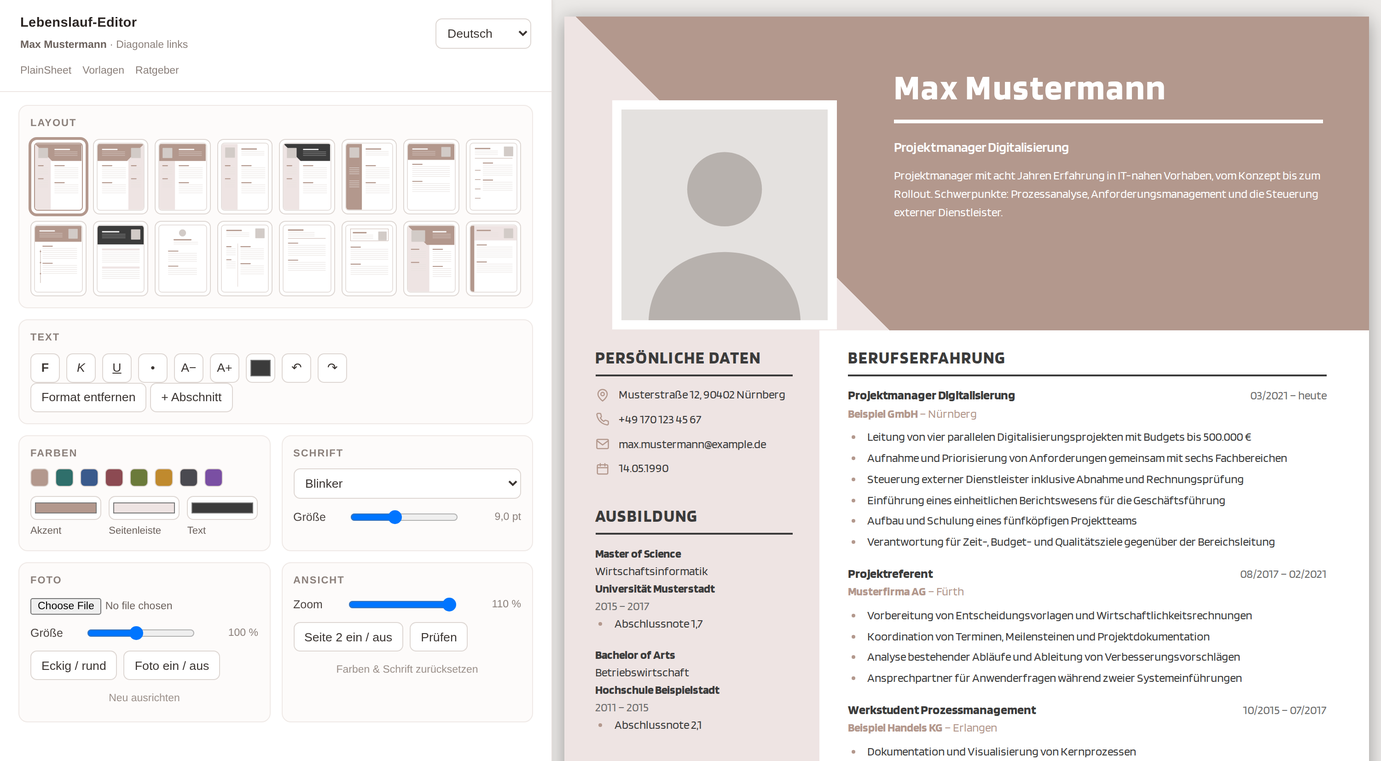
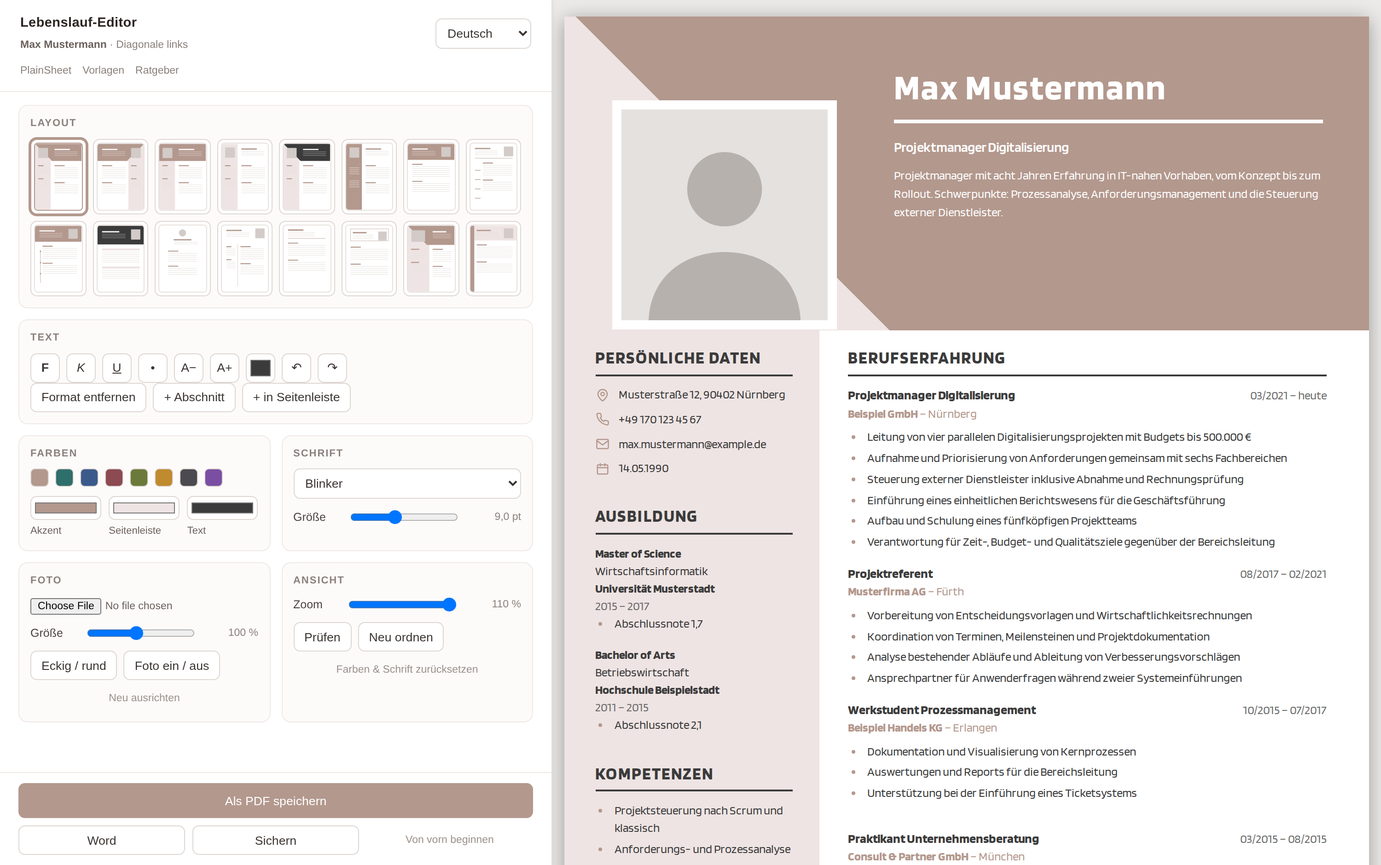
Make every + Abschnitt work, and let the sheet follow its content
The slots were built for the row grid that briefly existed: abschnittNeu()
tested the clicked element for a class the columns no longer carry, fell
through to its fallback, and put the section in the main column wherever
you clicked. The sidebar slot never once filled the sidebar. Slots also
kept being drawn at the end of full columns, where the sheet's overflow
clipped them — a dashed button, half visible, doing nothing.

- A slot fills its own column. The click reads the column at click time,
  so a slot that has moved to another page still adds the section there.
- A slot is only drawn where it can be clicked: it may reach into the
  bottom margin (it never prints), it goes shallower when space is tight,
  and it is left out rather than clipped on a column that is full.
- Because a full column can have no slot, the panel gained "+ in
  Seitenleiste" next to "+ Abschnitt". The sidebar button hides itself on
  the single-column layouts, which have no sidebar to fill.

The second half: geometry is now derived from the content, not from the
template alone.

- A page whose sidebar holds no sections drops its tinted panel. An empty
  block of colour reads as a fault, not as design.
- If no page uses the sidebar, the sheet becomes single-column: the main
  column takes the full width and the sidebar's slot waits underneath,
  named, so it can be brought back.
- Page 2 appears when page 1 overflows and disappears when nothing is
[…]

diff --git a/editor.html b/editor.html
@@ -206,13 +206,20 @@ body{display:flex;align-items:flex-start;background:#eceae8}
    auf. Gedruckt wird er nie. */
 .platz{
   display:flex;width:100%;align-items:center;justify-content:center;gap:1.5mm;
-  min-height:11mm;margin-top:7mm;border:.4mm dashed #cfc6c1;border-radius:1.5mm;
+  min-height:9mm;margin-top:5mm;border:.4mm dashed #cfc6c1;border-radius:1.5mm;
   color:#a2968f;font:600 3mm/1 -apple-system,"Segoe UI",Roboto,Arial,sans-serif;
   letter-spacing:.2mm;cursor:pointer;background:rgba(255,255,255,.45);
   transition:border-color .12s,color .12s,background .12s;
 }
 .platz:hover{border-color:var(--accent);color:var(--accent);background:rgba(255,255,255,.8)}
+/* Auf einer gut gefüllten Seite bleibt nur wenig Luft: dort wird der
+   Platz flacher, statt zu verschwinden. */
+.platz.knapp{min-height:6mm;margin-top:3mm}
 #blaetter.messen .platz{display:none}
+/* Gemessen wird immer in Druckgröße. Bei 90 % Zoom bricht eine Zeile
+   anders um als bei 110 %, und dann hing es am Zoom, ob der letzte
+   Abschnitt noch auf Seite 1 passt — das PDF sah bei jedem anders aus. */
+#blaetter.messen{zoom:1}
 /* Einspaltig steht die Seitenspalte unter der Hauptspalte. Ein Platz am
    Ende der Hauptspalte läge damit mitten im Dokument und würde alles
    darunter nach unten schieben — dort gibt es nur den Platz am Ende. */
@@ -529,6 +536,27 @@ h2.sec{margin:0 0 2.5mm;padding-bottom:1.2mm;font-size:1.4em;font-weight:700;let
 .t13 .side .contact,.t14 .side .contact,.t16 .side .contact{display:inline-flex;margin:0 8mm 1.8mm 0}
 
 /* ==================================================================
+   Das Blatt folgt dem Inhalt
+   Diese Regeln stehen absichtlich hinter allen Varianten: sie sollen
+   deren Geometrie überschreiben, sobald der Inhalt es verlangt.
+   ================================================================== */
+/* Eine Seitenspalte ohne Abschnitte trägt keine getönte Fläche. Ein
+   leerer Farbstreifen sieht nach Fehler aus, nicht nach Gestaltung. */
+.page.leiste-leer .sidebg{display:none}
+/* Beim Akzentstreifen ist die Fläche Blattschmuck und keine Spalte. */
+.page.leiste-leer.t16 .sidebg{display:block}
+
+/* Nutzt das Dokument die Seitenspalte gar nicht mehr, nimmt die
+   Hauptspalte die ganze Breite. Der Platz für die Seitenspalte bleibt
+   darunter stehen, damit sie sich zurückholen lässt. */
+.page.ohne-leiste .raster{grid-template-columns:1fr}
+.page.ohne-leiste .spalte.main{grid-column:1;grid-row:1;padding:0 15mm}
+.page.ohne-leiste .spalte.side{grid-column:1;grid-row:2;padding:0 15mm}
+.page.ohne-leiste.t6 .bandbg{display:none}
+.page.ohne-leiste.t12 .sidebg{display:none}
+.page.ohne-leiste.t15 .bandtext{left:86mm}
+
+/* ==================================================================
    Druck
    ================================================================== */
 @page{size:A4;margin:0}
@@ -586,8 +614,12 @@ h2.sec{margin:0 0 2.5mm;padding-bottom:1.2mm;font-size:1.4em;font-weight:700;let
         <button class="icon" onclick="cmd('undo')" title="Rückgängig">&#8630;</button>
         <button class="icon" onclick="cmd('redo')" title="Wiederholen">&#8631;</button>
       </div>
+      <div class="reihe">
         <button data-t="format" onclick="cmd('removeFormat')">Format entfernen</button>
         <button data-t="abschnitt" onclick="abschnittNeu()">+ Abschnitt</button>
+        <button id="knopfLeiste" data-t="abschnittLeiste"
+                onclick="abschnittNeu(leisteSpalte())">+ in Seitenleiste</button>
+      </div>
     </div>
 
 
@@ -663,8 +695,8 @@ h2.sec{margin:0 0 2.5mm;padding-bottom:1.2mm;font-size:1.4em;font-weight:700;let
         <input type="range" id="fZoom" min="45" max="110" step="5" value="85">
         <span class="wert" id="fZoomTxt">85 %</span></div>
       <div class="reihe">
-        <button data-t="seite2" onclick="seite2()">Seite 2 ein / aus</button>
         <button data-t="pruefen" onclick="checkFit(true)">Prüfen</button>
+        <button data-t="neuOrdnen" onclick="neuOrdnen(true)">Neu ordnen</button>
         <button class="leise breit" data-t="reset" onclick="zuruecksetzen()">Farben &amp; Schrift zurücksetzen</button>
       </div>
     </div>
@@ -855,8 +887,8 @@ const VARS = [
 ];
 const EINSPALTIG = ['t7','t8','t9','t10','t11','t13','t14','t16'];
 const INHALT = {"en": {"p1kopf": "<h1>John Doe</h1><div class=\"role\">Digital Transformation Project Manager</div><p>Project manager, eight years, taking IT initiatives from first concept to rollout. Focus on process analysis, requirements management and steering external suppliers.</p>", "p1side": "<section class=\"blk\"><div class=\"griff\" contenteditable=\"false\"><span class=\"zieh\" title=\"&#8942;\">&#9776;</span><span class=\"weg\" onclick=\"blockWeg(this)\">&#10005;</span></div><div class=\"inhalt\" contenteditable=\"true\"><h2 class=\"sec\">Personal details</h2><div class=\"contact\"><span class=\"ic ic-ort\"></span><span>12 Sample Street, 90402 Nuremberg</span></div><div class=\"contact\"><span class=\"ic ic-tel\"></span><span>+49 170 123 45 67</span></div><div class=\"contact\"><span class=\"ic ic-mail\"></span><span>john.doe@example.com</span></div><div class=\"contact\"><span class=\"ic ic-datum\"></span><span>14 May 1990</span></div></div></section><section class=\"blk\"><div class=\"griff\" contenteditable=\"false\"><span class=\"zieh\" title=\"&#8942;\">&#9776;</span><span class=\"weg\" onclick=\"blockWeg(this)\">&#10005;</span></div><div class=\"inhalt\" contenteditable=\"true\"><h2 class=\"sec\">Education</h2><div class=\"edu\"><div class=\"degree\">Master of Science</div><div>Business Information Systems</div><div><strong>Sample University</strong></div><div class=\"date\">2015 – 2017</div><ul><li>Final grade 1.7 (German scale)</li></ul></div><div class=\"edu\"><div class=\"degree\">Bachelor of Arts</div><div>Business Administration</div><div><strong>Example University of Applied Sciences</strong></div><div class=\"date\">2011 – 2015</div><ul><li>Final grade 2.1 (German scale)</li></ul></div></div></div></section>", "p1main": "<section class=\"blk\"><div class=\"griff\" contenteditable=\"false\"><span class=\"zieh\" title=\"&#8942;\">&#9776;</span><span class=\"weg\" onclick=\"blockWeg(this)\">&#10005;</span></div><div class=\"inhalt\" contenteditable=\"true\"><h2 class=\"sec\">Work experience</h2><div class=\"job\"><div class=\"jobhead\"><span class=\"jobtitle\">Digital Transformation Project Manager</span><span class=\"jobdate\">03/2021 – present</span></div><div class=\"company\"><strong>Example GmbH</strong> – Nuremberg</div><ul><li>Led four parallel digitalisation projects with budgets of up to €500,000</li><li>Gathered and prioritised requirements together with six departments</li><li>Managed external service providers including acceptance testing and invoice review</li><li>Introduced consistent reporting for the management board</li></ul></div><div class=\"job\"><div class=\"jobhead\"><span class=\"jobtitle\">Project Officer</span><span class=\"jobdate\">08/2017 – 02/2021</span></div><div class=\"company\"><strong>Sample AG</strong> – Fürth</div><ul><li>Prepared decision papers and cost-benefit analyses</li><li>Coordinated deadlines, milestones and project documentation</li><li>Analysed existing workflows and proposed improvements</li><li>Point of contact for user questions during two system rollouts</li></ul></div><div class=\"job\"><div class=\"jobhead\"><span class=\"jobtitle\">Working Student, Process Management</span><span class=\"jobdate\">10/2015 – 07/2017</span></div><div class=\"company\"><strong>Example Trading KG</strong> – Erlangen</div><ul><li>Documented and visualised core business processes</li><li>Produced analyses and reports for the division head</li><li>Supported the introduction of a ticketing system</li></ul></div></div></section>", "p2side": "<section class=\"blk\"><div class=\"griff\" contenteditable=\"false\"><span class=\"zieh\" title=\"&#8942;\">&#9776;</span><span class=\"weg\" onclick=\"blockWeg(this)\">&#10005;</span></div><div class=\"inhalt\" contenteditable=\"true\"><h2 class=\"sec\">Skills</h2><ul><li>Project management, agile and traditional</li><li>Requirements and process analysis</li><li>Jira &amp; Confluence – confident daily use</li><li>SAP – working knowledge</li><li>Microsoft Office – advanced</li><li>Presenting and facilitating</li></ul></div></section><section class=\"blk\"><div class=\"griff\" contenteditable=\"false\"><span class=\"zieh\" title=\"&#8942;\">&#9776;</span><span class=\"weg\" onclick=\"blockWeg(this)\">&#10005;</span></div><div class=\"inhalt\" contenteditable=\"true\"><h2 class=\"sec\">Languages</h2><div class=\"lang\"><strong>English</strong>: native speaker</div><div class=\"lang\"><strong>German</strong>: C1</div><div class=\"lang\"><strong>Spanish</strong>: B1</div></div></section>", "p2main": "<section class=\"blk\"><div class=\"griff\" contenteditable=\"false\"><span class=\"zieh\" title=\"&#8942;\">&#9776;</span><span class=\"weg\" onclick=\"blockWeg(this)\">&#10005;</span></div><div class=\"inhalt\" contenteditable=\"true\"><div class=\"job\"><div class=\"jobhead\"><span class=\"jobtitle\">Intern, Management Consulting</span><span class=\"jobdate\">03/2015 – 08/2015</span></div><div class=\"company\"><strong>Consult &amp; Partner GmbH</strong> – Munich</div><ul><li>Supported a procurement process review at an industrial client</li><li>Produced presentations and result documentation</li></ul></div></div></section><section class=\"blk\"><div class=\"griff\" contenteditable=\"false\"><span class=\"zieh\" title=\"&#8942;\">&#9776;</span><span class=\"weg\" onclick=\"blockWeg(this)\">&#10005;</span></div><div class=\"inhalt\" contenteditable=\"true\"><h2 class=\"sec\">Further training</h2><div class=\"job\"><div class=\"jobhead\"><span class=\"jobtitle\">Professional Scrum Master I</span><span class=\"jobdate\">2022</span></div><div class=\"company\"><strong>Scrum.org</strong></div></div><div class=\"job\"><div class=\"jobhead\"><span class=\"jobtitle\">IPMA Level D Project Management</span><span class=\"jobdate\">2019</span></div><div class=\"company\"><strong>German Association for Project Management</strong></div></div></div></section>"}, "es": {"p1kopf": "<h1>Juan Pérez</h1><div class=\"role\">Jefe de proyecto de digitalización</div><p>Jefe de proyecto con ocho años de experiencia en iniciativas de TI, del concepto a la implantación. Especializado en análisis de procesos y gestión de proveedores.</p>", "p1side": "<section class=\"blk\"><div class=\"griff\" contenteditable=\"false\"><span class=\"zieh\" title=\"&#8942;\">&#9776;</span><span class=\"weg\" onclick=\"blockWeg(this)\">&#10005;</span></div><div class=\"inhalt\" contenteditable=\"true\"><h2 class=\"sec\">Datos personales</h2><div class=\"contact\"><span class=\"ic ic-ort\"></span><span>Calle Ejemplo 12, 90402 Núremberg</span></div><div class=\"contact\"><span class=\"ic ic-tel\"></span><span>+49 170 123 45 67</span></div><div class=\"contact\"><span class=\"ic ic-mail\"></span><span>juan.perez@example.com</span></div><div class=\"contact\"><span class=\"ic ic-datum\"></span><span>14/05/1990</span></div></div></section><section class=\"blk\"><div class=\"griff\" contenteditable=\"false\"><span class=\"zieh\" title=\"&#8942;\">&#9776;</span><span class=\"weg\" onclick=\"blockWeg(this)\">&#10005;</span></div><div class=\"inhalt\" contenteditable=\"true\"><h2 class=\"sec\">Formación</h2><div class=\"edu\"><div class=\"degree\">Máster</div><div>Sistemas de Información Empresarial</div><div><strong>Universidad de Ejemplo</strong></div><div class=\"date\">2015 – 2017</div><ul><li>Nota final 1,7 (escala alemana)</li></ul></div><div class=\"edu\"><div class=\"degree\">Grado</div><div>Administración de Empresas</div><div><strong>Escuela Superior de Ejemplo</strong></div><div class=\"date\">2011 – 2015</div><ul><li>Nota final 2,1 (escala alemana)</li></ul></div></div></div></section>", "p1main": "<section class=\"blk\"><div class=\"griff\" contenteditable=\"false\"><span class=\"zieh\" title=\"&#8942;\">&#9776;</span><span class=\"weg\" onclick=\"blockWeg(this)\">&#10005;</span></div><div class=\"inhalt\" contenteditable=\"true\"><h2 class=\"sec\">Experiencia profesional</h2><div class=\"job\"><div class=\"jobhead\"><span class=\"jobtitle\">Jefe de proyecto de digitalización</span><span class=\"jobdate\">03/2021 – actualidad</span></div><div class=\"company\"><strong>Ejemplo GmbH</strong> – Núremberg</div><ul><li>Dirección de cuatro proyectos de digitalización simultáneos con presupuestos de hasta 500.000 €</li><li>Recogida y priorización de requisitos junto a seis departamentos</li><li>Gestión de proveedores externos, incluidas recepción y revisión de facturas</li><li>Implantación de un sistema de informes unificado para la dirección</li></ul></div><div class=\"job\"><div class=\"jobhead\"><span class=\"jobtitle\">Técnico de proyectos</span><span class=\"jobdate\">08/2017 – 02/2021</span></div><div class=\"company\"><strong>Empresa Ejemplo AG</strong> – Fürth</div><ul><li>Elaboración de propuestas de decisión y análisis de rentabilidad</li><li>Coordinación de plazos, hitos y documentación del proyecto</li><li>Análisis de procesos existentes y propuestas de mejora</li><li>Persona de contacto para los usuarios durante dos implantaciones de sistemas</li></ul></div><div class=\"job\"><div class=\"jobhead\"><span class=\"jobtitle\">Estudiante en prácticas, gestión de procesos</span><span class=\"jobdate\">10/2015 – 07/2017</span></div><div class=\"company\"><strong>Comercial Ejemplo KG</strong> – Erlangen</div><ul><li>Documentación y representación gráfica de los procesos clave</li><li>Análisis e informes para la dirección de área</li><li>Apoyo en la implantación de un sistema de tickets</li></ul></div></div></section>", "p2side": "<section class=\"blk\"><div class=\"griff\" contenteditable=\"false\"><span class=\"zieh\" title=\"&#8942;\">&#9776;</span><span class=\"weg\" onclick=\"blockWeg(this)\">&#10005;</span></div><div class=\"inhalt\" contenteditable=\"true\"><h2 class=\"sec\">Competencias</h2><ul><li>Gestión de proyectos, ágil y clásica</li><li>Análisis de requisitos y de procesos</li><li>Jira &amp; Confluence – uso habitual</li><li>SAP – conocimientos básicos</li><li>Microsoft Office – nivel avanzado</li><li>Presentación y moderación</li></ul></div></section><section class=\"blk\"><div class=\"griff\" contenteditable=\"false\"><span class=\"zieh\" title=\"&#8942;\">&#9776;</span><span class=\"weg\" onclick=\"blockWeg(this)\">&#10005;</span></div><div class=\"inhalt\" contenteditable=\"true\"><h2 class=\"sec\">Idiomas</h2><div class=\"lang\"><strong>Español</strong>: lengua materna</div><div class=\"lang\"><strong>Inglés</strong>: C1</div><div class=\"lang\"><strong>Alemán</strong>: B1</div></div></section>", "p2main": "<section class=\"blk\"><div class=\"griff\" contenteditable=\"false\"><span class=\"zieh\" title=\"&#8942;\">&#9776;</span><span class=\"weg\" onclick=\"blockWeg(this)\">&#10005;</span></div><div class=\"inhalt\" contenteditable=\"true\"><div class=\"job\"><div class=\"jobhead\"><span class=\"jobtitle\">Prácticas en consultoría</span><span class=\"jobdate\">03/2015 – 08/2015</span></div><div class=\"company\"><strong>Consult &amp; Partner GmbH</strong> – Múnich</div><ul><li>Colaboración en un análisis de procesos de compras en un cliente industrial</li><li>Elaboración de presentaciones y documentación de resultados</li></ul></div></div></section><section class=\"blk\"><div class=\"griff\" contenteditable=\"false\"><span class=\"zieh\" title=\"&#8942;\">&#9776;</span><span class=\"weg\" onclick=\"blockWeg(this)\">&#10005;</span></div><div class=\"inhalt\" contenteditable=\"true\"><h2 class=\"sec\">Formación continua</h2><div class=\"job\"><div class=\"jobhead\"><span class=\"jobtitle\">Professional Scrum Master I</span><span class=\"jobdate\">2022</span></div><div class=\"company\"><strong>Scrum.org</strong></div></div><div class=\"job\"><div class=\"jobhead\"><span class=\"jobtitle\">Gestión de proyectos IPMA nivel D</span><span class=\"jobdate\">2019</span></div><div class=\"company\"><strong>Asociación Alemana de Gestión de Proyectos</strong></div></div></div></section>"}};
-const UITXT = {"de": {"marke": "Lebenslauf-Editor", "gText": "Text", "gLayout": "Layout", "gFarben": "Farben", "gSchrift": "Schrift", "gFoto": "Foto", "gAnsicht": "Ansicht", "gSprache": "Sprache", "format": "Format entfernen", "abschnitt": "+ Abschnitt", "akzent": "Akzent", "leiste": "Seitenleiste", "textfarbe": "Text", "schriftart": "Schriftart", "groesse": "Größe", "fotoform": "Eckig / rund", "fotoan": "Foto ein / aus", "fotoreset": "Neu ausrichten", "zoom": "Zoom", "seite2": "Seite 2 ein / aus", "pruefen": "Prüfen", "reset": "Farben &amp; Schrift zurücksetzen", "pdf": "Als PDF speichern", "word": "Word", "sichern": "Sichern", "datei": "Eigenes Foto", "neuStart": "Von vorn beginnen", "zurueck": "Vorlagen", "ratgeber": "Ratgeber"}, "en": {"marke": "CV Editor", "gText": "Text", "gLayout": "Layout", "gFarben": "Colours", "gSchrift": "Font", "gFoto": "Photo", "gAnsicht": "View", "gSprache": "Language", "format": "Clear formatting", "abschnitt": "+ Section", "akzent": "Accent", "leiste": "Sidebar", "textfarbe": "Text", "schriftart": "Typeface", "groesse": "Size", "fotoform": "Square / round", "fotoan": "Photo on / off", "fotoreset": "Reset position", "zoom": "Zoom", "seite2": "Page 2 on / off", "pruefen": "Check", "reset": "Reset colours &amp; font", "pdf": "Save as PDF", "word": "Word", "sichern": "Save file", "datei": "Own photo", "neuStart": "Start over", "zurueck": "Templates", "ratgeber": "Guides"}, "es": {"marke": "Editor de CV", "gText": "Texto", "gLayout": "Diseño", "gFarben": "Colores", "gSchrift": "Tipografía", "gFoto": "Foto", "gAnsicht": "Vista", "gSprache": "Idioma", "format": "Quitar formato", "abschnitt": "+ Sección", "akzent": "Acento", "leiste": "Barra lateral", "textfarbe": "Texto", "schriftart": "Tipo de letra", "groesse": "Tamaño", "fotoform": "Cuadrada / redonda", "fotoan": "Foto sí / no", "fotoreset": "Restablecer", "zoom": "Zoom", "seite2": "Página 2 sí / no", "pruefen": "Comprobar", "reset": "Restablecer colores y tipografía", "pdf": "Guardar como PDF", "word": "Word", "sichern": "Guardar archivo", "datei": "Foto propia", "neuStart": "Empezar de nuevo", "zurueck": "Plantillas", "ratgeber": "Guías"}};
-const MSG = {"de": {"markieren": "Erst Text markieren, dann A− / A+ nutzen.", "passt": "Alles passt auf die Seiten.", "zuviel": "Zu viel Inhalt auf {s} – die rot markierten Abschnitte am Griff oben rechts anfassen und verschieben.", "weg": "„{t}“ wirklich entfernen?", "neuerTitel": "Neuer Abschnitt", "neuerPunkt": "Erster Punkt", "neu": "Abschnitt angelegt – Titel anklicken und überschreiben.", "fotoweg": "Foto steht wieder an der Position des Layouts.", "gesichert": "Gesichert – die Datei liegt im Download-Ordner.", "seite": "Seite", "und": " und ", "wechsel": "Sprache wechseln? Der Beispielinhalt wird ersetzt, eigene Texte gehen verloren.", "entwurf": "Entwurf von diesem Gerät wiederhergestellt.", "entwurfWeg": "Alles verwerfen und mit dem Beispiel neu beginnen?", "entwurfGross": "Der Entwurf ist zu groß für den Browserspeicher – bitte „Sichern“ benutzen.", "platzLeer": "Abschnitt", "entwurfUmgebaut": "Entwurf übernommen und an das neue Layout angepasst."}, "en": {"markieren": "Select some text first, then use A− / A+.", "passt": "Everything fits on the pages.", "zuviel": "Too much content on {s} – grab the sections marked in red by the handle and move them.", "weg": "Remove “{t}”?", "neuerTitel": "New section", "neuerPunkt": "First point", "neu": "Section added – click the title to rename it.", "fotoweg": "The photo is back in its layout position.", "gesichert": "Saved – the file is in your downloads folder.", "seite": "page", "und": " and ", "wechsel": "Switch language? The sample content will be replaced and your own text will be lost.", "entwurf": "Draft restored from this device.", "entwurfWeg": "Discard everything and start again from the example?", "entwurfGross": "The draft is too large for browser storage — please use Save file.", "platzLeer": "Section", "entwurfUmgebaut": "Draft carried over and fitted to the new layout."}, "es": {"markieren": "Selecciona primero el texto y usa A− / A+.", "passt": "Todo cabe en las páginas.", "zuviel": "Demasiado contenido en {s}: arrastra por el asa las secciones marcadas en rojo.", "weg": "¿Eliminar «{t}»?", "neuerTitel": "Nueva sección", "neuerPunkt": "Primer punto", "neu": "Sección añadida: haz clic en el título para cambiarlo.", "fotoweg": "La foto ha vuelto a su posición.", "gesichert": "Guardado: el archivo está en tu carpeta de descargas.", "seite": "página", "und": " y ", "wechsel": "¿Cambiar de idioma? Se sustituirá el contenido de ejemplo y perderás tus textos.", "entwurf": "Borrador restaurado desde este dispositivo.", "entwurfWeg": "¿Descartar todo y empezar de nuevo con el ejemplo?", "entwurfGross": "El borrador es demasiado grande para el almacenamiento del navegador: usa «Guardar archivo».", "platzLeer": "Sección", "entwurfUmgebaut": "Borrador adoptado y adaptado al nuevo diseño."}};
+const UITXT = {"de": {"marke": "Lebenslauf-Editor", "gText": "Text", "gLayout": "Layout", "gFarben": "Farben", "gSchrift": "Schrift", "gFoto": "Foto", "gAnsicht": "Ansicht", "gSprache": "Sprache", "format": "Format entfernen", "abschnitt": "+ Abschnitt", "abschnittLeiste": "+ in Seitenleiste", "akzent": "Akzent", "leiste": "Seitenleiste", "textfarbe": "Text", "schriftart": "Schriftart", "groesse": "Größe", "fotoform": "Eckig / rund", "fotoan": "Foto ein / aus", "fotoreset": "Neu ausrichten", "zoom": "Zoom", "neuOrdnen": "Neu ordnen", "pruefen": "Prüfen", "reset": "Farben &amp; Schrift zurücksetzen", "pdf": "Als PDF speichern", "word": "Word", "sichern": "Sichern", "datei": "Eigenes Foto", "neuStart": "Von vorn beginnen", "zurueck": "Vorlagen", "ratgeber": "Ratgeber"}, "en": {"marke": "CV Editor", "gText": "Text", "gLayout": "Layout", "gFarben": "Colours", "gSchrift": "Font", "gFoto": "Photo", "gAnsicht": "View", "gSprache": "Language", "format": "Clear formatting", "abschnitt": "+ Section", "abschnittLeiste": "+ in sidebar", "akzent": "Accent", "leiste": "Sidebar", "textfarbe": "Text", "schriftart": "Typeface", "groesse": "Size", "fotoform": "Square / round", "fotoan": "Photo on / off", "fotoreset": "Reset position", "zoom": "Zoom", "neuOrdnen": "Rearrange", "pruefen": "Check", "reset": "Reset colours &amp; font", "pdf": "Save as PDF", "word": "Word", "sichern": "Save file", "datei": "Own photo", "neuStart": "Start over", "zurueck": "Templates", "ratgeber": "Guides"}, "es": {"marke": "Editor de CV", "gText": "Texto", "gLayout": "Diseño", "gFarben": "Colores", "gSchrift": "Tipografía", "gFoto": "Foto", "gAnsicht": "Vista", "gSprache": "Idioma", "format": "Quitar formato", "abschnitt": "+ Sección", "abschnittLeiste": "+ en barra lateral", "akzent": "Acento", "leiste": "Barra lateral", "textfarbe": "Texto", "schriftart": "Tipo de letra", "groesse": "Tamaño", "fotoform": "Cuadrada / redonda", "fotoan": "Foto sí / no", "fotoreset": "Restablecer", "zoom": "Zoom", "neuOrdnen": "Reordenar", "pruefen": "Comprobar", "reset": "Restablecer colores y tipografía", "pdf": "Guardar como PDF", "word": "Word", "sichern": "Guardar archivo", "datei": "Foto propia", "neuStart": "Empezar de nuevo", "zurueck": "Plantillas", "ratgeber": "Guías"}};
+const MSG = {"de": {"markieren": "Erst Text markieren, dann A− / A+ nutzen.", "passt": "Alles passt auf die Seiten.", "zuviel": "Zu viel Inhalt auf {s} – die rot markierten Abschnitte am Griff oben rechts anfassen und verschieben.", "weg": "„{t}“ wirklich entfernen?", "neuerTitel": "Neuer Abschnitt", "neuerPunkt": "Erster Punkt", "neu": "Abschnitt angelegt – Titel anklicken und überschreiben.", "fotoweg": "Foto steht wieder an der Position des Layouts.", "gesichert": "Gesichert – die Datei liegt im Download-Ordner.", "seite": "Seite", "und": " und ", "wechsel": "Sprache wechseln? Der Beispielinhalt wird ersetzt, eigene Texte gehen verloren.", "entwurf": "Entwurf von diesem Gerät wiederhergestellt.", "entwurfWeg": "Alles verwerfen und mit dem Beispiel neu beginnen?", "entwurfGross": "Der Entwurf ist zu groß für den Browserspeicher – bitte „Sichern“ benutzen.", "platzLeer": "Abschnitt", "platzLeiste": "Abschnitt in der Seitenleiste", "entwurfUmgebaut": "Entwurf übernommen und an das neue Layout angepasst."}, "en": {"markieren": "Select some text first, then use A− / A+.", "passt": "Everything fits on the pages.", "zuviel": "Too much content on {s} – grab the sections marked in red by the handle and move them.", "weg": "Remove “{t}”?", "neuerTitel": "New section", "neuerPunkt": "First point", "neu": "Section added – click the title to rename it.", "fotoweg": "The photo is back in its layout position.", "gesichert": "Saved – the file is in your downloads folder.", "seite": "page", "und": " and ", "wechsel": "Switch language? The sample content will be replaced and your own text will be lost.", "entwurf": "Draft restored from this device.", "entwurfWeg": "Discard everything and start again from the example?", "entwurfGross": "The draft is too large for browser storage — please use Save file.", "platzLeer": "Section", "platzLeiste": "Section in the sidebar", "entwurfUmgebaut": "Draft carried over and fitted to the new layout."}, "es": {"markieren": "Selecciona primero el texto y usa A− / A+.", "passt": "Todo cabe en las páginas.", "zuviel": "Demasiado contenido en {s}: arrastra por el asa las secciones marcadas en rojo.", "weg": "¿Eliminar «{t}»?", "neuerTitel": "Nueva sección", "neuerPunkt": "Primer punto", "neu": "Sección añadida: haz clic en el título para cambiarlo.", "fotoweg": "La foto ha vuelto a su posición.", "gesichert": "Guardado: el archivo está en tu carpeta de descargas.", "seite": "página", "und": " y ", "wechsel": "¿Cambiar de idioma? Se sustituirá el contenido de ejemplo y perderás tus textos.", "entwurf": "Borrador restaurado desde este dispositivo.", "entwurfWeg": "¿Descartar todo y empezar de nuevo con el ejemplo?", "entwurfGross": "El borrador es demasiado grande para el almacenamiento del navegador: usa «Guardar archivo».", "platzLeer": "Sección", "platzLeiste": "Sección en la barra lateral", "entwurfUmgebaut": "Borrador adoptado y adaptado al nuevo diseño."}};
 const VARNAMEN = {"de": [["Diagonale links", "Original"], ["Diagonale rechts", "gespiegelt"], ["Gerades Band", "ohne Diagonale"], ["Ruhiger Kopf", "ohne Farbband"], ["Dunkler Kopf", "kräftig"], ["Farbige Leiste", "Leiste in Akzentfarbe"], ["Einspaltig", "ATS-sicher"], ["Datumsspalte", "klassisch tabellarisch"], ["Zeitstrahl", "Stationen an einer Linie"], ["Kopfblock", "dunkler Kopf"], ["Zentriert", "rundes Foto"], ["Feine Trennlinie", "zwei Spalten ohne Tönung"], ["Schlicht", "ohne Foto, ATS-sicher"], ["Kopfkarte", "gerahmter Kopf"], ["Breite Leiste", "viel Platz für Kenntnisse"], ["Akzentstreifen", "Farbkante am Rand"]], "en": [["Diagonal left", "original"], ["Diagonal right", "mirrored"], ["Solid banner", "no diagonal"], ["Quiet header", "no colour band"], ["Dark header", "bold"], ["Coloured sidebar", "accent fill"], ["Single column", "ATS-safe"], ["Date column", "classic tabular"], ["Timeline", "dots on a line"], ["Header block", "dark header"], ["Centred", "round photo"], ["Fine divider", "two columns, no tint"], ["Plain", "no photo, ATS-safe"], ["Header card", "framed header"], ["Wide sidebar", "room for skills"], ["Accent edge", "colour bar at the margin"]], "es": [["Diagonal izquierda", "original"], ["Diagonal derecha", "invertido"], ["Banda plana", "sin diagonal"], ["Cabecera sobria", "sin franja de color"], ["Cabecera oscura", "contrastada"], ["Barra en color", "barra con acento"], ["Una columna", "apto para ATS"], ["Columna de fechas", "tabular clásico"], ["Línea de tiempo", "puntos en una línea"], ["Bloque de cabecera", "cabecera oscura"], ["Centrado", "foto redonda"], ["Separador fino", "dos columnas sin fondo"], ["Sobrio", "sin foto, apto para ATS"], ["Cabecera enmarcada", "cabecera con marco"], ["Barra ancha", "espacio para competencias"], ["Borde de acento", "franja en el margen"]]};
 
 let sprache = 'de';
@@ -901,7 +933,7 @@ function grenzeVon(p){
    leeren Plätze, die nur der Bedienung dienen. */
 function inDruckmass(fn){
   const b = document.getElementById('blaetter');
-  b.classList.add('messen');
+  b.classList.add('messen');                 /* Plätze weg, Zoom auf 1 */
   void b.offsetHeight;                       /* Layout erzwingen */
   try { return fn(); } finally { b.classList.remove('messen'); }
 }
@@ -931,20 +963,102 @@ function zelleFuer(p, art){ return zielZelle(p, art); }
 
 /* Am Ende jeder Spalte steht ein freier Platz: dort lässt sich ein
    Abschnitt ablegen oder mit einem Klick anlegen. Gedruckt wird er nie. */
+function platzNeu(){
+  const platz = document.createElement('button');
+  platz.type = 'button';
+  platz.className = 'platz ui';
+  platz.setAttribute('contenteditable', 'false');
+  platz.innerHTML = '<b>+</b><span></span>';
+  /* Die Spalte wird erst beim Klick gelesen: ein Platz kann inzwischen
+     auf einer anderen Seite stehen. */
+  platz.addEventListener('click', () => abschnittNeu(platz.closest('.spalte')));
+  return platz;
+}
+
+/* Ein Platz jenseits der Blattkante wäre abgeschnitten und nicht mehr
+   anklickbar — genau das ließ die Knöpfe wirkungslos erscheinen. Er darf
+   dabei in den unteren Blattrand hineinragen: gedruckt wird er nie, und
+   sonst hätte eine gut gefüllte Seite überhaupt keinen mehr. */
+function platzPasst(seite, platz){
+  if (platz.offsetParent === null) return true;          /* ausgeblendet */
+  const r = seite.getBoundingClientRect();
+  const mm = r.height / 297;
+  return platz.getBoundingClientRect().bottom <= r.bottom - 2 * mm;
+}
+
 function plaetzeZeichnen(){
   document.querySelectorAll('#blaetter .spalte').forEach(sp => {
-    let platz = sp.querySelector(':scope > .platz');
-    if (!platz){
-      platz = document.createElement('button');
-      platz.type = 'button';
-      platz.className = 'platz ui';
-      platz.setAttribute('contenteditable', 'false');
-      platz.innerHTML = '<b>+</b><span></span>';
-      platz.addEventListener('click', () => abschnittNeu(sp));
-    }
+    const seite = sp.closest('.page');
+    const platz = sp.querySelector(':scope > .platz') || platzNeu();
     sp.appendChild(platz);                       /* immer als Letztes */
-    platz.querySelector('span').textContent = T('platzLeer');
+    /* Steht die Seitenspalte als einzige Spur unter der Hauptspalte, ist
+       nicht mehr zu sehen, wohin der Abschnitt geht — dann sagt es der
+       Platz selbst. */
+    const leiste = sp.classList.contains('side') && seite.classList.contains('ohne-leiste');
+    platz.querySelector('span').textContent = leiste ? T('platzLeiste') : T('platzLeer');
+    platz.classList.remove('knapp');
+    if (!platzPasst(seite, platz)){
+      platz.classList.add('knapp');                /* zweiter Versuch, flacher */
+      if (!platzPasst(seite, platz)) platz.remove();
+    }
   });
+}
+
+/* ==================================================================
+   Das Blatt folgt dem Inhalt
+   Wer einen Abschnitt hinzufügt oder entfernt, ändert damit auch die
+   Fläche, die er braucht. Farbflächen, Spaltenbreiten und die zweite
+   Seite richten sich deshalb nach dem Inhalt und nicht nach der Vorlage
+   allein.
+   ================================================================== */
+function hatLeisteninhalt(p){
+  const sp = spalte(p, 'side');
+  return !!(sp && sp.querySelector(':scope > .blk'));
+}
+
+/* Einspaltige Layouts haben keine Seitenleiste — dann fehlt auch der
+   Knopf dafür, statt ins Nichts zu zeigen. */
+function leisteKnopf(){
+  const k = document.getElementById('knopfLeiste');
+  if (!k) return;
+  const p1 = [...seiten()][0];
+  k.hidden = !p1 || p1.classList.contains('einspaltig');
+}
+
+function flaechenAnpassen(){
+  const alle = [...seiten()];
+  const sichtbar = alle.filter(p => p.style.display !== 'none');
+  /* Nutzt das ganze Dokument die Seitenspalte nicht mehr, wird aus dem
+     Blatt ein einspaltiges. Einspaltige Vorlagen haben ohnehin keine. */
+  const genutzt = sichtbar.some(hatLeisteninhalt);
+  alle.forEach(p => {
+    p.classList.toggle('leiste-leer', !hatLeisteninhalt(p));
+    p.classList.toggle('ohne-leiste', !genutzt && !p.classList.contains('einspaltig'));
+  });
+  leisteKnopf();
+}
+
+/* Seite 2 erscheint, wenn Seite 1 überläuft, und verschwindet, sobald
+   nichts mehr darauf steht: ein leeres Blatt im PDF will niemand. */
+function seite2Anpassen(endgueltig){
+  const alle = [...seiten()];
+  const p1 = alle[0], p2 = alle[1];
+  if (!p1 || !p2) return;
+  if (p2.querySelector('.blk')){ p2.style.display = ''; return; }
+  p2.style.display = (!endgueltig && laeuftUeber(p1)) ? '' : 'none';
+}
+
+/* Ein Durchlauf nach jeder Änderung am Aufbau. Zwei Runden, weil das
+   Verteilen eine Spalte leeren kann und die Geometrie dann anders
+   ausfällt. */
+function neuOrdnen(laut){
+  bandAnpassen();
+  for (let i = 0; i < 2; i++){ flaechenAnpassen(); seite2Anpassen(false); verteilen(); }
+  seite2Anpassen(true);
+  flaechenAnpassen();
+  plaetzeZeichnen();
+  checkFit(laut === true);
+  vorschauen();
 }
 
 /* Schiebt überzählige Abschnitte auf Seite 2 und holt zurück, was wieder passt. */
@@ -1043,7 +1157,7 @@ function setVar(k){
   });
   markiere();
   fotoZuruecksetzen(true);
-  setTimeout(() => { bandAnpassen(); verteilen(); checkFit(false); vorschauen(); }, 80);
+  setTimeout(() => neuOrdnen(), 80);
 }
 
 /* ---------------- Text ---------------- */
@@ -1116,10 +1230,12 @@ function checkFit(laut){
 document.addEventListener('input', e => {
   if (e.target.closest && e.target.closest('.bandtext')) bandAnpassen();
 });
+/* Beim Tippen wird nichts verschoben — der Schreibfluss ginge verloren.
+   Die Farbflächen dürfen aber schon folgen. */
 document.addEventListener('input', () => { clearTimeout(window._t);
-  window._t = setTimeout(() => { checkFit(); vorschauen(); }, 600); });
+  window._t = setTimeout(() => { flaechenAnpassen(); checkFit(); vorschauen(); }, 600); });
 document.documentElement.style.setProperty('--zoom', .85);
-window.addEventListener('load', () => { zoomAnpassen(); bandAnpassen(); verteilen(); checkFit(false); vorschauen(); });
+window.addEventListener('load', () => { zoomAnpassen(); neuOrdnen(); });
 
 /* ---------------- Abschnitte verschieben ---------------- */
 let gezogen = null;
@@ -1176,24 +1292,59 @@ document.addEventListener('drop', e => {
   e.preventDefault();
   const ziel = zielBlock(zone, e.clientY);
   if (ziel) zone.insertBefore(gezogen, ziel); else zone.appendChild(gezogen);
-  saubermachen(); checkFit(false); vorschauen();
+  saubermachen(); neuOrdnen();
 });
 
 function blockWeg(el){
   const b = el.closest('.blk');
   const titel = b.querySelector('h2') ? b.querySelector('h2').textContent.trim() : 'diesen Abschnitt';
   if (confirm(T('weg').replace('{t}', titel))) {
-    b.remove(); plaetzeZeichnen(); verteilen(); checkFit(false);
+    b.remove(); neuOrdnen();
   }
 }
 
-/* Ohne Angabe landet der neue Abschnitt im ersten freien Platz;
-   über einen leeren Platz angeklickt, landet er genau dort. */
+/* Die Plätze, die gerade wirklich zu sehen sind. */
+function freiePlaetze(){
+  return [...document.querySelectorAll('#blaetter .platz')]
+    .filter(x => x.offsetParent !== null && x.closest('.page').style.display !== 'none');
+}
+
+/* Ohne Angabe nimmt der Knopf in der Leiste den nächsten freien Platz:
+   in zweispaltigen Layouts das Ende der Hauptspalte, in einspaltigen das
+   Ende des Dokuments. Ist auf Seite 1 nichts mehr frei, kommt Seite 2. */
+function zielSpalte(){
+  let liste = freiePlaetze();
+  if (!liste.length){
+    const p2 = [...seiten()][1];
+    if (p2 && p2.style.display === 'none'){
+      p2.style.display = '';
+      plaetzeZeichnen();
+      liste = freiePlaetze();
+    }
+  }
+  if (!liste.length) return null;
+  const haupt = liste.find(x => x.closest('.spalte').classList.contains('main'));
+  return (haupt || liste[liste.length - 1]).closest('.spalte');
+}
+
+/* Der Knopf für die Seitenleiste braucht ein Ziel, auch wenn die Spalte
+   bis zum Seitenrand voll ist und darum keinen Platz mehr zeigt. */
+function leisteSpalte(){
+  const sichtbar = [...seiten()].filter(p => p.style.display !== 'none');
+  for (const p of sichtbar){
+    const sp = spalte(p, 'side');
+    const platz = sp && sp.querySelector(':scope > .platz');
+    if (sp && platz && platz.offsetParent !== null) return sp;
+  }
+  return sichtbar.length ? spalte(sichtbar[0], 'side') : null;
+}
+
+/* Über einen Platz angeklickt, landet der Abschnitt genau in dessen
+   Spalte — vorher nahm er wegen eines Namens aus der Zwischenfassung
+   immer die Hauptspalte, gleich wohin man geklickt hatte. */
 function abschnittNeu(zelle){
-  const p = [...seiten()].find(x => x.style.display !== 'none') || seiten()[0];
-  const ziel = (zelle && zelle.classList.contains('zelle'))
-    ? zelle
-    : (zelleFuer(p, 'main', false) || zelleFuer(p, 'side', false));
+  const ziel = (zelle && zelle.classList && zelle.classList.contains('spalte'))
+    ? zelle : zielSpalte();
   if (!ziel) return;
   const b = document.createElement('section');
   b.className = 'blk';
@@ -1203,9 +1354,8 @@ function abschnittNeu(zelle){
     '<div class="inhalt" contenteditable="true"><h2 class="sec">' + T('neuerTitel') + '</h2>' +
     '<ul><li>' + T('neuerPunkt') + '</li></ul></div>';
   const platz = ziel.querySelector(':scope > .platz');
-  if (platz) platz.remove();
-  ziel.appendChild(b);
-  plaetzeZeichnen();
+  if (platz) ziel.insertBefore(b, platz); else ziel.appendChild(b);
+  neuOrdnen();
   b.scrollIntoView({block:'center'});
   melde(T('neu'), 5000);
 }
@@ -1336,7 +1486,7 @@ document.getElementById('fFotoSize').addEventListener('input', e => {
 });
 
 function fotoZeigen(){ const f = foto(); f.style.display = f.style.display === 'none' ? '' : 'none'; }
-function seite2(){ const p = document.querySelector('#blaetter > .page.p2'); p.style.display = p.style.display === 'none' ? '' : 'none'; }
+
 function zuruecksetzen(){
   ['--accent','--sidebar','--dark','--onaccent','--font','--fs'].forEach(v => wurzel.style.removeProperty(v));
   palette('#B3988D','#EEE4E3','#3B3B3B');
@@ -1649,7 +1799,7 @@ function entwurfHerstellen(){
   }
   markiere();
   kopfNameSetzen();
-  setTimeout(() => { bandAnpassen(); verteilen(); checkFit(false); vorschauen(); }, 60);
+  setTimeout(() => neuOrdnen(), 60);
   return true;
 }
 

diff --git a/README.md b/README.md
@@ -243,16 +243,40 @@ that is the difference between a one-page and a two-page resume, and it
 pushed the skills and languages sections off page one entirely. Columns that
 start together and then flow independently is the right trade.
 
-- Each column ends in a visible slot. Clicking it adds a section exactly
-  there; dragging a section by its handle drops it into either column.
+- Each column ends in a visible slot, and clicking it adds a section in
+  **that** column — the sidebar slot fills the sidebar, the main slot fills
+  the main column. Dragging a section by its handle drops it into either.
+  A slot is only drawn where it can actually be clicked: it may reach into
+  the sheet's bottom margin (it never prints), it becomes shallower when
+  space is tight, and on a column that is full to the edge it is left out
+  rather than drawn half off the page. Because a full column can therefore
+  have no slot, the panel carries both `+ Section` and `+ in sidebar`, so
+  every column stays reachable however full the page is.
 - Single-column layouts are the same grid with one track: the main column
   first, the sidebar's sections below it, and the contact block lifted to the
   front so the address is under the header rather than behind the job history.
-- The slots are interface, not document: `.platz` is hidden in print. Because
-  of that, every measurement of what still fits on a page runs inside
-  `inDruckmass()`, which hides them first — otherwise the editor distributes
-  content against a fuller page than the one that prints, and the promise of
-  the tool is that the two are identical.
+- The slots are interface, not document: `.platz` is hidden in print. Every
+  measurement of what still fits runs inside `inDruckmass()`, which hides the
+  slots **and sets the zoom back to 100%**. Both matter. Measured at the
+  visitor's zoom, a line wraps differently at 90% than at 110%, and whether
+  the last section still fitted on page one came down to the zoom slider —
+  two people with the same resume got different PDFs. Measuring at print
+  scale is the only way the screen and the PDF can be the same document.
+- **The sheet follows the content.** Adding or removing a section changes how
+  much room the document needs, so the geometry is derived, never fixed:
+  a page whose sidebar holds no sections drops its tinted panel — an empty
+  block of colour reads as a fault, not as design — and if no page uses the
+  sidebar at all, the sheet becomes single-column with the main column at
+  full width and the sidebar's slot waiting underneath, labelled, so it can
+  be brought back. Page two is the same idea: it appears by itself when
+  page one overflows and disappears when nothing is left on it, which is why
+  the manual "page 2 on/off" switch is gone — and why a one-page resume no
+  longer prints a blank second sheet. `neuOrdnen()` is the single pass that
+  does all of it (header height, areas, page two, distribution, slots,
+  overflow warning) and every structural change calls it. Typing does not:
+  moving a section out from under the caret mid-sentence is worse than a
+  late re-flow, so text edits only re-colour and re-check, and `Rearrange`
+  in the panel forces a full pass.
 - A draft in `localStorage` carries the structure it was saved with, so a
   visitor who used an earlier version would get that structure back and see
   something other than the current layout. `strukturReparieren()` lifts the
@@ -263,7 +287,11 @@ start together and then flow independently is the right trade.
 `tools/` has no test runner, but the checks used while building this are worth
 knowing about: render all sixteen layouts, measure where each column starts
 and ends, and compare those numbers against the previous commit. That is how
-a 4.5mm gutter that had quietly vanished from seven layouts was found.
+a 4.5mm gutter that had quietly vanished from seven layouts was found. Two
+more are worth repeating after any change to the editor: click every visible
+slot and assert the section appears in that slot's own column, and print the
+same resume from two different window widths and diff the PDFs — they must
+be byte-for-byte the same story.
 
 ## The landing page
 
